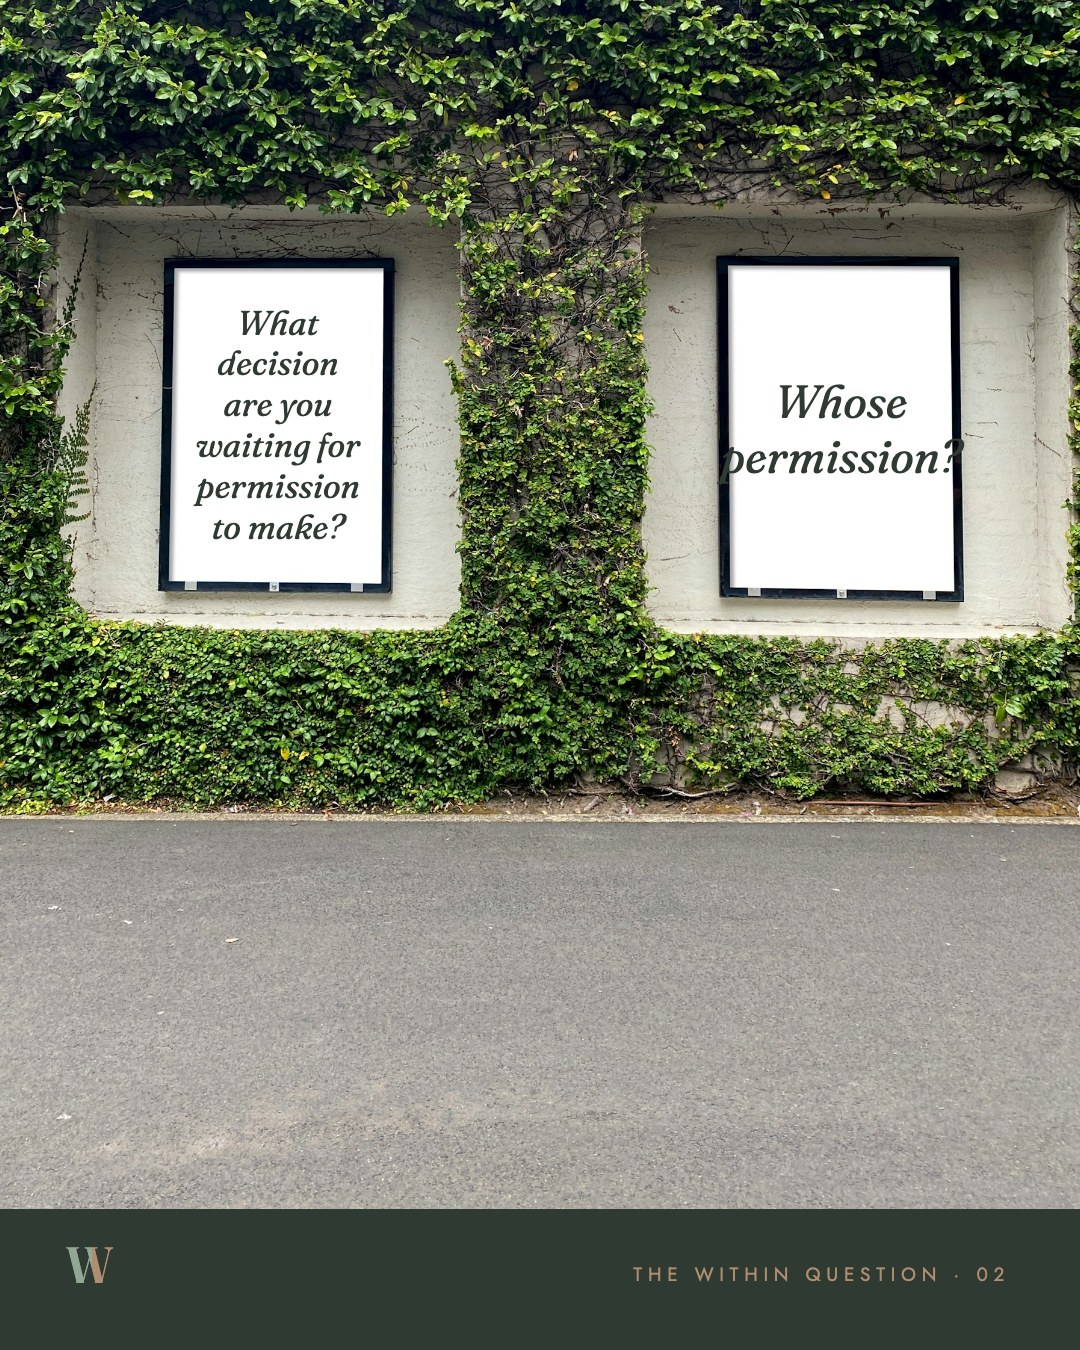
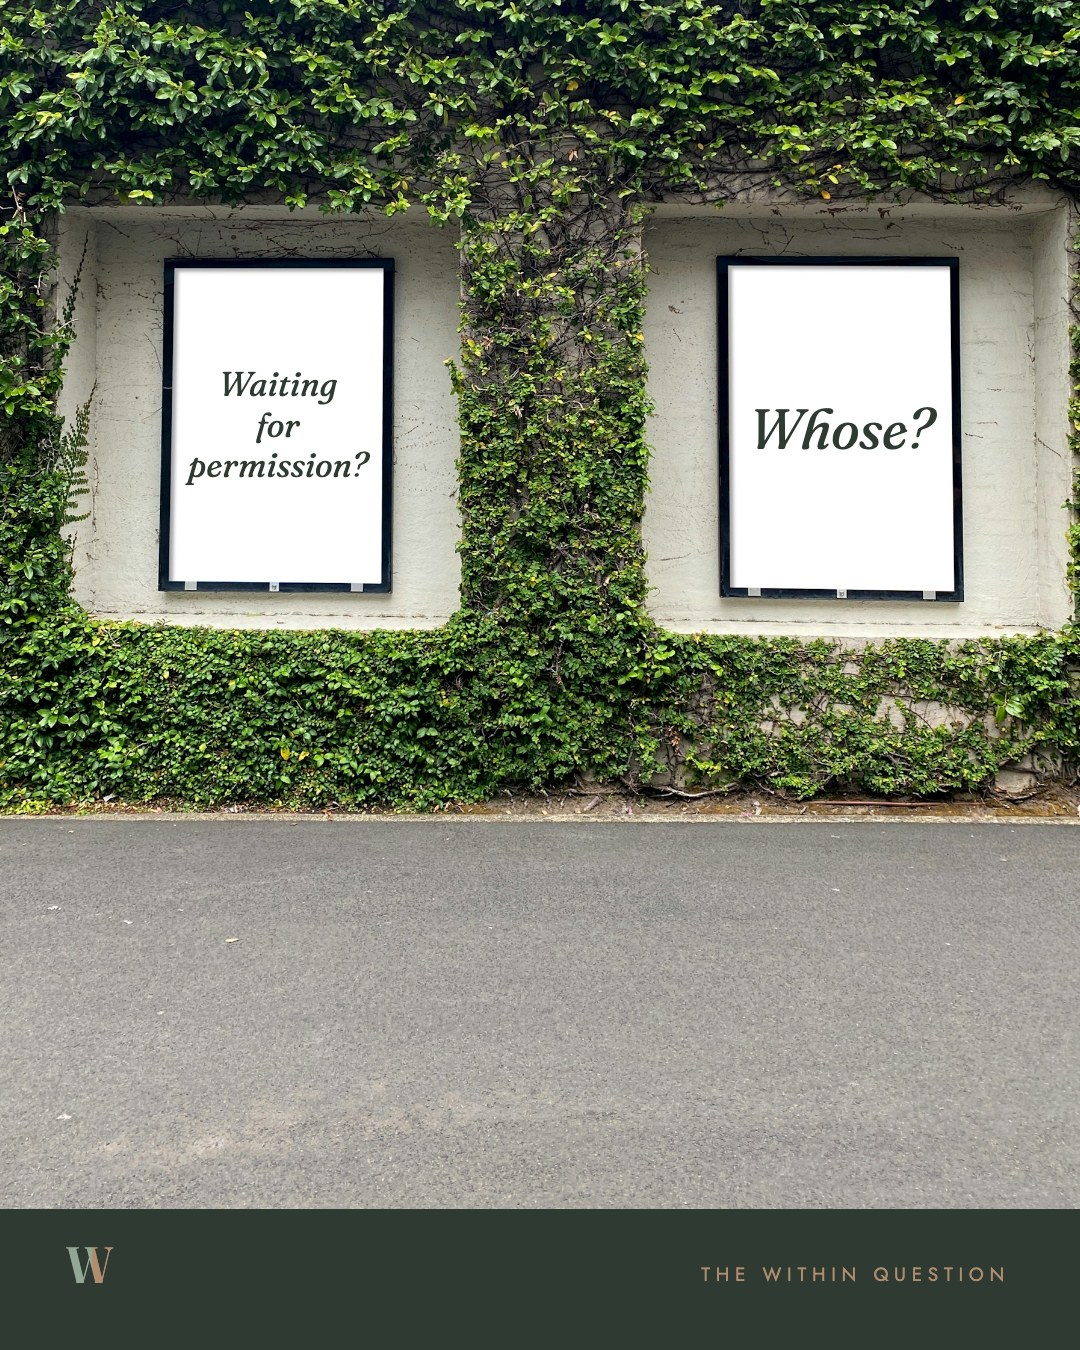
Megha 10 Nov: no CTA on Three people, Within Question caption, shorter Within Question 02

diff --git a/content/index.html b/content/index.html
@@ -109,24 +109,24 @@ The real skill is asking the right questions.</textarea></div></div>
   <div class="ig-head"><img src="../assets/megha.jpg" alt=""><span><b>megha.withinworks</b><small>Dubai</small></span><span class="dots">&middot;&middot;&middot;</span></div>
   <div class="ig-media"><div class="ig-track"><img src="../posts/c1-12a.jpg?v=1794045287" alt="" loading="lazy" width="1080" height="1350"><img src="../posts/c1-12b.jpg?v=1794045257" alt="" loading="lazy" width="1080" height="1350"></div><span class="ig-count">1/2</span><button class="ig-arrow prev" aria-label="Previous" hidden>&#8249;</button><button class="ig-arrow next" aria-label="Next">&#8250;</button></div>
   <div class="ig-bar"><svg viewBox="0 0 24 24" class=""><path d="M12 21s-7.5-4.6-9.3-9.2C1.4 8.4 3.6 5 7 5c2 0 3.4 1.1 5 3 1.6-1.9 3-3 5-3 3.4 0 5.6 3.4 4.3 6.8C19.5 16.4 12 21 12 21z"/></svg><svg viewBox="0 0 24 24" class=""><path d="M20.5 12a8.5 8.5 0 0 1-12.4 7.5L3.5 21l1.5-4.4A8.5 8.5 0 1 1 20.5 12z"/></svg><svg viewBox="0 0 24 24" class=""><path d="M22 3 9.2 10.1M22 3l-7 18-3.8-8.6L2 9.5 22 3z"/></svg><span class="ig-pips"><i></i><i></i></span><svg viewBox="0 0 24 24" class="save"><path d="M19 21l-7-5.2L5 21V3h14z"/></svg></div>
-  <div class="ig-cap clip"><b>megha.withinworks</b>Team coaching works best when everyone understands their part in it, including yours.
-
-Book a discovery call on www.withinworksleadership.com</div><button class="ig-more" type="button">more</button>
-  <div class="ig-when"><span></span><div class="copyrow"><button class="copy" type="button" title="Copy caption" aria-label="Copy caption"><svg viewBox="0 0 24 24"><rect x="9" y="9" width="11" height="11" rx="2"/><path d="M5 15V6a2 2 0 0 1 2-2h9"/></svg></button><textarea class="cap-src" hidden>Team coaching works best when everyone understands their part in it, including yours.
-
-Book a discovery call on www.withinworksleadership.com</textarea></div></div>
+  <div class="ig-cap clip"><b>megha.withinworks</b>Team coaching works best when everyone understands their part in it, including yours.</div><button class="ig-more" type="button">more</button>
+  <div class="ig-when"><span></span><div class="copyrow"><button class="copy" type="button" title="Copy caption" aria-label="Copy caption"><svg viewBox="0 0 24 24"><rect x="9" y="9" width="11" height="11" rx="2"/><path d="M5 15V6a2 2 0 0 1 2-2h9"/></svg></button><textarea class="cap-src" hidden>Team coaching works best when everyone understands their part in it, including yours.</textarea></div></div>
 </div>
-<div class="review post" data-id="c1-12" data-rev="2026-11-07" data-title="Three people in the room" style="background:none;border:0;padding:14px 0 0"></div>
+<div class="review post" data-id="c1-12" data-rev="2026-11-10" data-title="Three people in the room" style="background:none;border:0;padding:14px 0 0"></div>
 </article><article class="post-wrap" id="c1-3">
 <p class="eyebrow" style="margin-bottom:10px">08 &middot; The Within Question</p>
 <div class="ig">
   <div class="ig-head"><img src="../assets/megha.jpg" alt=""><span><b>megha.withinworks</b><small>Dubai</small></span><span class="dots">&middot;&middot;&middot;</span></div>
   <div class="ig-media"><div class="ig-track"><img src="../posts/c1-3.jpg?v=1793814573" alt="" loading="lazy" width="1080" height="1350"></div></div>
   <div class="ig-bar"><svg viewBox="0 0 24 24" class=""><path d="M12 21s-7.5-4.6-9.3-9.2C1.4 8.4 3.6 5 7 5c2 0 3.4 1.1 5 3 1.6-1.9 3-3 5-3 3.4 0 5.6 3.4 4.3 6.8C19.5 16.4 12 21 12 21z"/></svg><svg viewBox="0 0 24 24" class=""><path d="M20.5 12a8.5 8.5 0 0 1-12.4 7.5L3.5 21l1.5-4.4A8.5 8.5 0 1 1 20.5 12z"/></svg><svg viewBox="0 0 24 24" class=""><path d="M22 3 9.2 10.1M22 3l-7 18-3.8-8.6L2 9.5 22 3z"/></svg><svg viewBox="0 0 24 24" class="save"><path d="M19 21l-7-5.2L5 21V3h14z"/></svg></div>
-  <div class="ig-cap clip"><b>megha.withinworks</b>The questions worth sitting with rarely feel comfortable at first. No need to answer here. Just notice what comes up.</div><button class="ig-more" type="button">more</button>
-  <div class="ig-when"><span></span><div class="copyrow"><button class="copy" type="button" title="Copy caption" aria-label="Copy caption"><svg viewBox="0 0 24 24"><rect x="9" y="9" width="11" height="11" rx="2"/><path d="M5 15V6a2 2 0 0 1 2-2h9"/></svg></button><textarea class="cap-src" hidden>The questions worth sitting with rarely feel comfortable at first. No need to answer here. Just notice what comes up.</textarea></div></div>
+  <div class="ig-cap clip"><b>megha.withinworks</b>Separate the facts from the story. Can the story change when the perspective changes?
+
+The questions worth sitting with rarely feel comfortable at first. No need to answer here. Just notice what comes up.</div><button class="ig-more" type="button">more</button>
+  <div class="ig-when"><span></span><div class="copyrow"><button class="copy" type="button" title="Copy caption" aria-label="Copy caption"><svg viewBox="0 0 24 24"><rect x="9" y="9" width="11" height="11" rx="2"/><path d="M5 15V6a2 2 0 0 1 2-2h9"/></svg></button><textarea class="cap-src" hidden>Separate the facts from the story. Can the story change when the perspective changes?
+
+The questions worth sitting with rarely feel comfortable at first. No need to answer here. Just notice what comes up.</textarea></div></div>
 </div>
-<div class="review post" data-id="c1-3" data-rev="2026-11-07" data-title="The Within Question" style="background:none;border:0;padding:14px 0 0"></div>
+<div class="review post" data-id="c1-3" data-rev="2026-11-10" data-title="The Within Question" style="background:none;border:0;padding:14px 0 0"></div>
 </article><article class="post-wrap" id="c1-4">
 <p class="eyebrow" style="margin-bottom:10px">09 &middot; Leadership, unlearned</p>
 <div class="ig">
@@ -185,12 +185,12 @@ But people rarely act on an answer someone hands them. They act on the one they 
 <p class="eyebrow" style="margin-bottom:10px">14 &middot; The Within Question 02</p>
 <div class="ig">
   <div class="ig-head"><img src="../assets/megha.jpg" alt=""><span><b>megha.withinworks</b><small>Dubai</small></span><span class="dots">&middot;&middot;&middot;</span></div>
-  <div class="ig-media"><div class="ig-track"><img src="../posts/c1-14.jpg?v=1793814613" alt="" loading="lazy" width="1080" height="1350"></div></div>
+  <div class="ig-media"><div class="ig-track"><img src="../posts/c1-14.jpg?v=1794310772" alt="" loading="lazy" width="1080" height="1350"></div></div>
   <div class="ig-bar"><svg viewBox="0 0 24 24" class=""><path d="M12 21s-7.5-4.6-9.3-9.2C1.4 8.4 3.6 5 7 5c2 0 3.4 1.1 5 3 1.6-1.9 3-3 5-3 3.4 0 5.6 3.4 4.3 6.8C19.5 16.4 12 21 12 21z"/></svg><svg viewBox="0 0 24 24" class=""><path d="M20.5 12a8.5 8.5 0 0 1-12.4 7.5L3.5 21l1.5-4.4A8.5 8.5 0 1 1 20.5 12z"/></svg><svg viewBox="0 0 24 24" class=""><path d="M22 3 9.2 10.1M22 3l-7 18-3.8-8.6L2 9.5 22 3z"/></svg><svg viewBox="0 0 24 24" class="save"><path d="M19 21l-7-5.2L5 21V3h14z"/></svg></div>
-  <div class="ig-cap clip"><b>megha.withinworks</b>The Within Question, 02. Sit with it this week.</div><button class="ig-more" type="button">more</button>
-  <div class="ig-when"><span></span><div class="copyrow"><button class="copy" type="button" title="Copy caption" aria-label="Copy caption"><svg viewBox="0 0 24 24"><rect x="9" y="9" width="11" height="11" rx="2"/><path d="M5 15V6a2 2 0 0 1 2-2h9"/></svg></button><textarea class="cap-src" hidden>The Within Question, 02. Sit with it this week.</textarea></div></div>
+  <div class="ig-cap clip"><b>megha.withinworks</b>A question to sit with this week. Most of us are waiting for someone’s permission. Few of us have asked whose.</div><button class="ig-more" type="button">more</button>
+  <div class="ig-when"><span></span><div class="copyrow"><button class="copy" type="button" title="Copy caption" aria-label="Copy caption"><svg viewBox="0 0 24 24"><rect x="9" y="9" width="11" height="11" rx="2"/><path d="M5 15V6a2 2 0 0 1 2-2h9"/></svg></button><textarea class="cap-src" hidden>A question to sit with this week. Most of us are waiting for someone’s permission. Few of us have asked whose.</textarea></div></div>
 </div>
-<div class="review post" data-id="c1-14" data-rev="" data-title="The Within Question 02" style="background:none;border:0;padding:14px 0 0"></div>
+<div class="review post" data-id="c1-14" data-rev="2026-11-10" data-title="The Within Question 02" style="background:none;border:0;padding:14px 0 0"></div>
 </article><article class="post-wrap" id="c1-10">
 <p class="eyebrow" style="margin-bottom:10px">15 &middot; Notes from the mat</p>
 <div class="ig">
